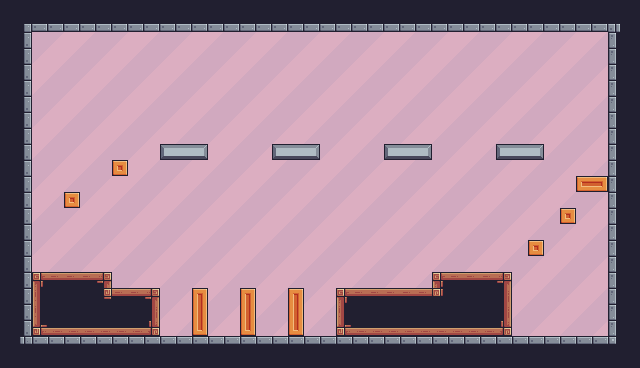
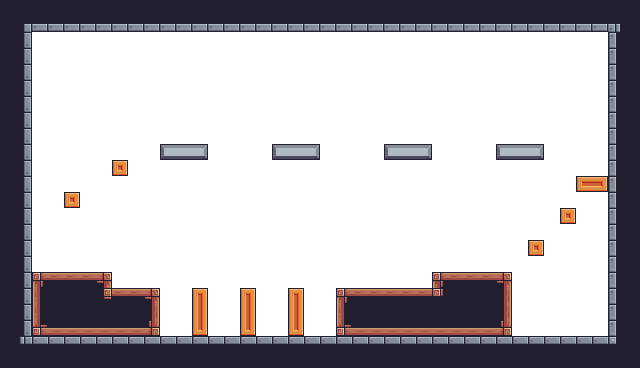
60 fps and one way collisions

diff --git a/code/level.py b/code/level.py
@@ -22,6 +22,7 @@ class Level:
         self.effect_sprites = pygame.sprite.Group()
         self.damageable_sprites = pygame.sprite.Group()
         self.bounce_platforms = pygame.sprite.Group()
+        self.oneway_sprites = pygame.sprite.Group()
         self.player = pygame.sprite.GroupSingle()
 
         # setup level
@@ -37,6 +38,9 @@ class Level:
     def setup_layout(self):
         Background([self.background_sprite])
         BouncePlatform((128, 308), [self.bounce_platforms, self.visible_sprites])
+        testsurface = pygame.Surface((16, 1))
+        Basic_Tile((200, 260), [self.oneway_sprites, self.visible_sprites], testsurface)
+        Basic_Tile((232, 260), [self.oneway_sprites, self.visible_sprites], testsurface)
         layouts = {
             'obstacle_block': import_csv_layout(f'../levels/{self.level}/csv/{self.level}_StaticTiles.csv'),
             'CollectableFruit': import_csv_layout(f'../levels/{self.level}/csv/{self.level}_CollectableFruits.csv'),
@@ -64,7 +68,7 @@ class Level:
                                 Saw((x + 15, y), [self.damageable_sprites, self.visible_sprites])
 
     def create_player(self):
-        Player((64, 230), [self.player], self.obstacle_sprites, self.create_dead_effect)
+        Player((64, 230), [self.player], self.obstacle_sprites, self.oneway_sprites, self.create_dead_effect)
 
     def create_dead_effect(self):
         player = self.player.sprite
@@ -88,7 +92,7 @@ class Level:
         for sprite in self.bounce_platforms.sprites():
             if player.hitbox.colliderect(sprite.hitbox):
                 sprite.status = 'Hit'
-                player.direction.y = -4
+                player.direction.y = -6
                 player.double_jump = True
 
     def check_game_stage(self):
@@ -98,7 +102,7 @@ class Level:
 
     def enter_timer(self):
         self.timer_index += self.timer_speed
-        if self.timer_index >= 14:
+        if self.timer_index >= 7:
             self.game_state = 'Running'
 
     def run(self, dt):
@@ -106,8 +110,8 @@ class Level:
         # Background
         self.background_sprite.draw(self.display_surface)
         self.display_surface.blit(self.background_surface, (0, 0))
-        debug('Level', self.level, self.display_surface)
-        debug('game_state', self.game_state, self.display_surface, 20)
+        debug('Level', self.level)
+        debug('game_state', self.game_state, 20)
 
         # UPDATE METHOD
         # Background
@@ -138,4 +142,4 @@ class Level:
             self.check_bounce()
             self.check_game_stage()
             player = self.player.sprite
-            debug('player_status', player.status, self.display_surface, 30)
+            debug('player_status', player.status, 30)

diff --git a/code/player.py b/code/player.py
@@ -3,12 +3,13 @@ from support import import_folder
 
 
 class Player(pygame.sprite.Sprite):
-    def __init__(self, pos, group, tiles, create_dead_effect):
+    def __init__(self, pos, group, tiles, oneway_tiles, create_dead_effect):
         super().__init__(group)
         self.image = pygame.image.load('../graphics/player/Idle/a.png').convert_alpha()
         self.rect = self.image.get_rect(center=(pos[0]-3, pos[1]-7))
         self.hitbox = self.rect.inflate(-15, 0)
         self.tiles = tiles
+        self.oneway_tiles = oneway_tiles
         self.pressed = False
         self.alive = True
 
@@ -16,8 +17,8 @@ class Player(pygame.sprite.Sprite):
         self.pos = pygame.math.Vector2(self.rect.center)
         self.direction = pygame.math.Vector2()
         self.speed = 110
-        self.gravity = 8
-        self.jumpforce = -3
+        self.gravity = 9
+        self.jumpforce = -4.3
         self.current_x = 0
         self.friction = 1
         self.on_ground = False
@@ -151,6 +152,18 @@ class Player(pygame.sprite.Sprite):
             if self.on_ground and self.direction.y < 0 or self.direction.y > 2:
                 self.on_ground = False
 
+    def oneway_collision_test(self):
+        for sprite in self.oneway_tiles:
+            diff = self.hitbox.y - sprite.hitbox.y
+            if abs(diff) >= 20:
+                if sprite.hitbox.colliderect(self.hitbox):
+                    if self.direction.y > 0:
+                        self.hitbox.bottom = sprite.hitbox.top
+                        self.direction.y = 0
+                        self.pos.y = self.hitbox.y
+                        self.on_ground = True
+                        self.double_jump = True
+
     def move(self, dt):
         if self.status != 'Hurt':
             self.pos.x += self.direction.x * self.speed * dt
@@ -158,6 +171,7 @@ class Player(pygame.sprite.Sprite):
             self.static_collision('horizontal')
             self.apply_gravity(dt)
             self.static_collision('vertical')
+            self.oneway_collision_test()
         self.rect.center = self.hitbox.center
 
     def apply_gravity(self, dt):

diff --git a/code/effect.py b/code/effect.py
@@ -1,4 +1,5 @@
 import pygame
+from debug import debug
 from support import import_folder
 
 
@@ -11,7 +12,7 @@ class Collect_effect(pygame.sprite.Sprite):
 		# Animations
 		self.import_assets()
 		self.frame_index = 0
-		self.animation_speed = 0.14
+		self.animation_speed = 0.28
 
 	def import_assets(self):
 		full_path = '../graphics/fruits/Collected'
@@ -24,7 +25,7 @@ class Collect_effect(pygame.sprite.Sprite):
 		else:
 			self.image = self.frame[int(self.frame_index)]
 
-	def update(self):
+	def update(self, ):
 		self.animate()
 
 class Player_effect(pygame.sprite.Sprite):
@@ -37,7 +38,7 @@ class Player_effect(pygame.sprite.Sprite):
 
 		# Animations
 		self.frame_index = 0
-		self.animation_speed = 0.14
+		self.animation_speed = 0.28
 		if self.type == 'Enter':
 			self.frames = import_folder('../graphics/player/Enter_effect')
 		elif self.type == 'Dead':
@@ -55,3 +56,4 @@ class Player_effect(pygame.sprite.Sprite):
 
 	def update(self):
 		self.animate()
+

diff --git a/code/main.py b/code/main.py
@@ -9,7 +9,6 @@ class Game:
         pygame.init()
         self.screen = pygame.display.set_mode((scaled_width, scaled_height), pygame.SCALED | pygame.FULLSCREEN)
         pygame.display.set_caption('Pixel_Adventure_1')
-        self.scaled_screen = pygame.Surface((scaled_width, scaled_height))
         self.clock = pygame.time.Clock()
         self.prev_time = time.time()
         self.level = Level()
@@ -29,7 +28,7 @@ class Game:
 
             self.screen.fill((33, 31, 48))
             self.level.run(dt)
-            debug('FPS', int(self.clock.get_fps()), self.screen, 40)
+            debug('FPS', int(self.clock.get_fps()), 40)
 
             pygame.display.update()
             self.clock.tick(fps)

diff --git a/code/debug.py b/code/debug.py
@@ -4,9 +4,9 @@ pygame.init()
 
 font = pygame.font.Font(None, 14)
 
-def debug(Text, info, surface, y = 10, x = 0):
+def debug(Text, info, y = 10, x = 0):
     text = str(Text)
-    display_surface = surface
+    display_surface = pygame.display.get_surface()
     debug_surface = font.render(f'{text} : {str(info)}', True, 'white')
     debug_rect = debug_surface.get_rect(topleft = (x, y))
     pygame.draw.rect(display_surface, 'black', debug_rect)

diff --git a/code/tile.py b/code/tile.py
@@ -9,6 +9,7 @@ class Basic_Tile(pygame.sprite.Sprite):
         self.image = surface
         self.rect = self.image.get_rect(topleft=pos)
         self.hitbox = self.rect
+        self.old_hitbox = self.hitbox.copy()
 
 class CollectableFruit(pygame.sprite.Sprite):
     def __init__(self, pos, group, type):

diff --git a/code/setting.py b/code/setting.py
@@ -1,4 +1,4 @@
 tile_size = 16
 scaled_width = 640
 scaled_height = 360
-fps = 120
+fps = 60
